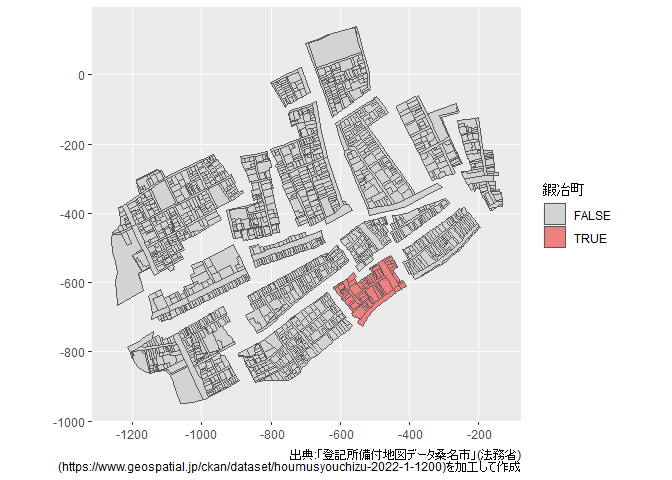
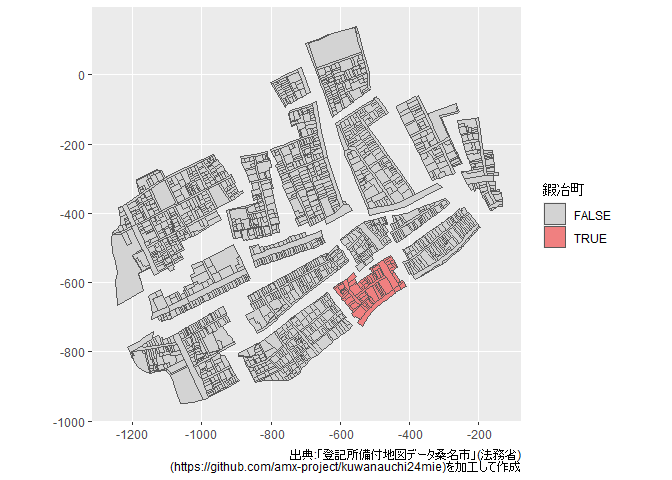
Update README

Changed region(s): [[0.0938, 0.9375, 0.6562, 1.0]]

diff --git a/README.md b/README.md
@@ -138,7 +138,7 @@ fude_polygon_kuwana_kajimachi |>
                     values = c(`TRUE` = "lightcoral",
                                `FALSE` = "lightgray")) +
   labs(caption = stringr::str_glue(
-    "出典:「登記所備付地図データ桑名市」(法務省)\n(https://www.geospatial.jp/ckan/dataset/houmusyouchizu-2022-1-1200)を加工して作成"
+    "出典:「登記所備付地図データ桑名市」(法務省)\n(https://github.com/amx-project/kuwanauchi24mie)を加工して作成"
     ))
 ```
 
